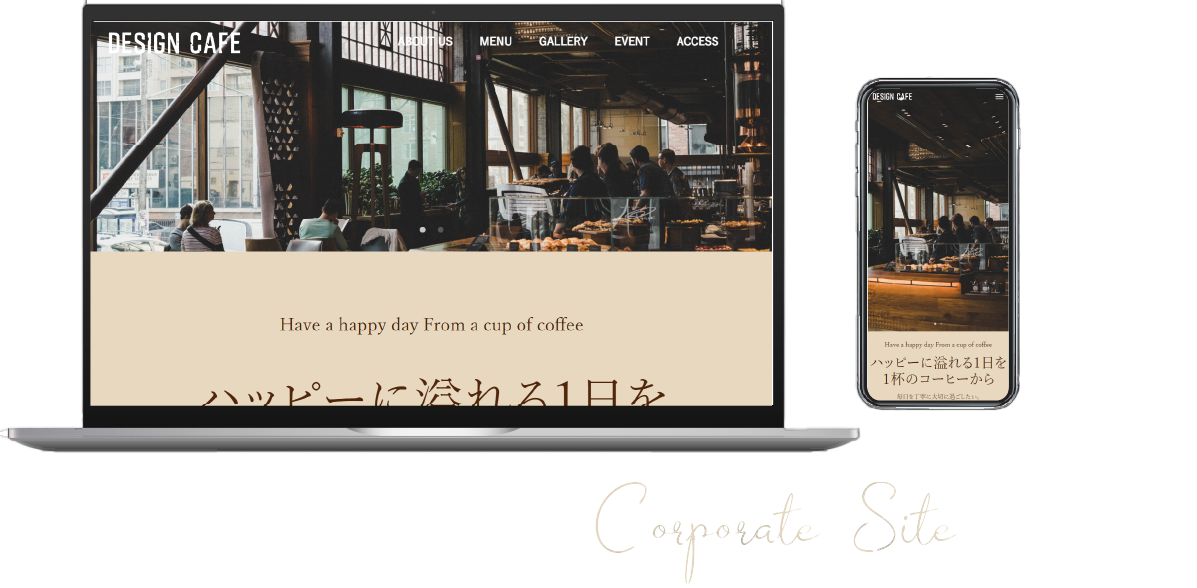
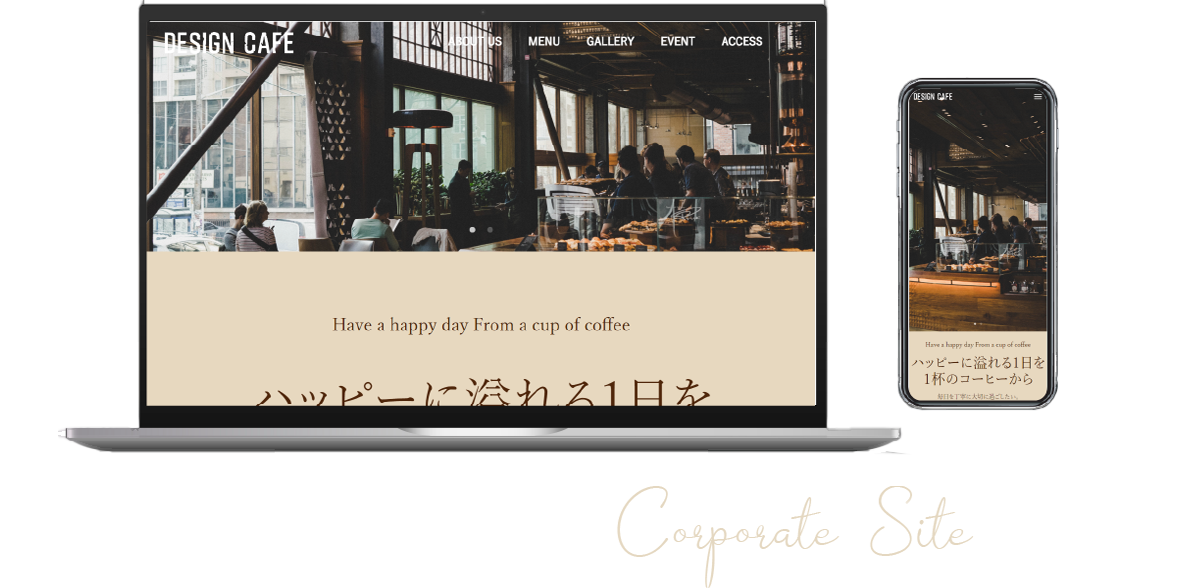
1030

diff --git a/css/work.css b/css/work.css
@@ -350,7 +350,7 @@ img {
     padding-top: 19px;
 }
 .work_detail {
-    margin-top: 35px;
+    margin: 35px 0 0 106px;
     text-align: center;
 }
 .work_detail {
@@ -448,7 +448,7 @@ h3 {
     padding: 25px 0 5px 45px;
 }
 .capture_bottom ul {
-    max-width: 87%;
+    max-width: 53%;
     margin: 0 auto;
     display: flex;
 }
@@ -634,6 +634,12 @@ h3 {
         max-width: 500px;
         position: relative;
         z-index: 2;
+    }
+    .work_detail {
+        margin: 35px 0 0 18px;
+    }
+    .capture_bottom ul {
+        max-width: 80%;
     }
     .salon_pic {
         max-width: 68%;
